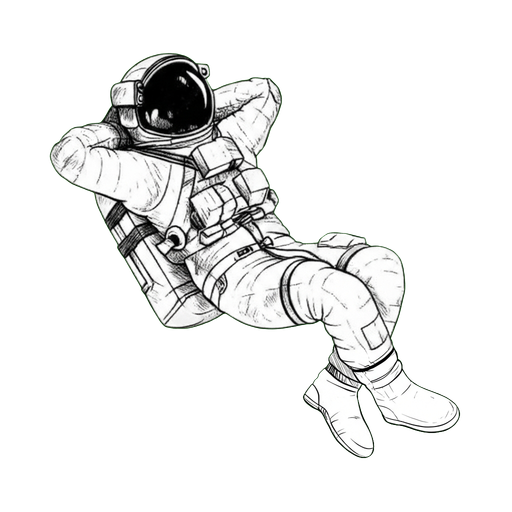
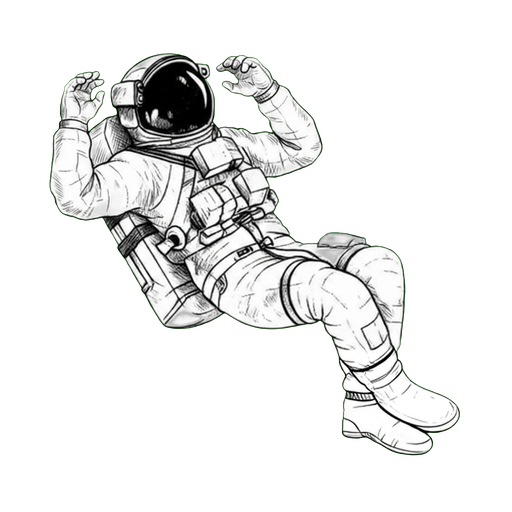
feat: refine stretch to arms-only with fast-hold-ease timing
Regenerated 4 stretch frames via Gemini — arms only change, legs stay
planted in idle position throughout. Dropped settle + recrossed frames
for a tighter 4-frame cycle (idle → anticipation → extension → peak).

Timing: fast zip into stretch (50-80ms holds, 120ms crossfades), 1.2s
hold on peak open-arms pose, 500ms slow ease back to idle. Variable
per-transition crossfade durations replace flat constant.

diff --git a/components/ui/VoyagerLanding.tsx b/components/ui/VoyagerLanding.tsx
@@ -8,29 +8,31 @@ import { useAuth } from '@/lib/auth/context'
 // Email input states
 type EmailState = 'active' | 'sending' | 'sent' | 'error'
 
-// Stretch animation frames — idle → uncross → stretch → arms up → settle → re-cross
+// Stretch animation frames — idle → anticipation → extension → peak → idle
+// Arms-only movement, legs stay planted throughout
 const STRETCH_FRAMES = [
   '/images/astronaut/idle.png',
   '/images/astronaut/stretch-frames/frame-1-uncrossing.png',
   '/images/astronaut/stretch-frames/frame-2-stretched.png',
   '/images/astronaut/stretch-frames/frame-3-peak-stretch.png',
-  '/images/astronaut/stretch-frames/frame-3b-arms-up.png',
-  '/images/astronaut/stretch-frames/frame-4b-settling.png',
-  '/images/astronaut/stretch-frames/frame-5-recrossed.png',
 ]
 
-// Per-frame hold times (ms) — how long to hold each frame before crossfading to next
+// Per-frame hold times (ms) — fast into stretch, hold the peak, ease back
 const FRAME_TIMINGS = [
-  0,    // idle — n/a (starting frame)
-  150,  // uncrossing — quick transition
-  200,  // stretched — settling in
-  250,  // peak stretch — building
-  800,  // arms up — HOLD (the zero-g moment)
-  250,  // settling — unwinding
-  200,  // recrossed — quick return
+  0,     // idle — n/a (starting frame)
+  50,    // anticipation — zip through
+  80,    // extension — zip through
+  1200,  // peak — BIG hold, the satisfying stretch moment
 ]
 
-const CROSSFADE_MS = 300  // opacity transition duration
+// Crossfade durations per transition
+const CROSSFADE_TIMINGS = [
+  0,    // idle — n/a
+  120,  // into anticipation — quick
+  120,  // into extension — quick
+  200,  // into peak — slightly slower arrival
+]
+const CROSSFADE_RETURN = 500  // back to idle — slow ease back, like releasing a stretch
 
 // Randomized idle interval — 20 to 40 seconds between stretches
 const randomIdleMs = () => 20000 + Math.random() * 20000
@@ -41,10 +43,11 @@ export const VoyagerLanding = () => {
   // Welcome line — hidden until LLM responds, fallback after timeout
   const [welcomeLine, setWelcomeLine] = useState<string | null>(null)
 
-  // Astronaut stretch animation — dual-layer crossfade
+  // Astronaut stretch animation — dual-layer crossfade with variable timing
   const [backSrc, setBackSrc] = useState(STRETCH_FRAMES[0])
   const [frontSrc, setFrontSrc] = useState<string | null>(null)
   const [frontOpacity, setFrontOpacity] = useState(0)
+  const [crossfadeDuration, setCrossfadeDuration] = useState(350)
 
   // Email input
   const [email, setEmail] = useState('')
@@ -68,9 +71,10 @@ export const VoyagerLanding = () => {
     let timer: ReturnType<typeof setTimeout>
     let raf: number
 
-    const crossfadeTo = (nextSrc: string, onComplete: () => void) => {
+    const crossfadeTo = (nextSrc: string, durationMs: number, onComplete: () => void) => {
+      setCrossfadeDuration(durationMs)
       setFrontSrc(nextSrc)
-      // Frame delay so browser registers src change before opacity transition
+      // Frame delay so browser registers src + duration change before opacity transition
       raf = requestAnimationFrame(() => {
         setFrontOpacity(1)
       })
@@ -80,7 +84,7 @@ export const VoyagerLanding = () => {
         setFrontSrc(null)
         setFrontOpacity(0)
         onComplete()
-      }, CROSSFADE_MS)
+      }, durationMs)
     }
 
     const runStretchCycle = () => {
@@ -90,13 +94,13 @@ export const VoyagerLanding = () => {
         const nextFrame = frameIndex + 1
 
         if (nextFrame < STRETCH_FRAMES.length) {
-          crossfadeTo(STRETCH_FRAMES[nextFrame], () => {
+          crossfadeTo(STRETCH_FRAMES[nextFrame], CROSSFADE_TIMINGS[nextFrame], () => {
             frameIndex = nextFrame
             timer = setTimeout(advance, FRAME_TIMINGS[nextFrame])
           })
         } else {
           // Return to idle, then wait random interval
-          crossfadeTo(STRETCH_FRAMES[0], () => {
+          crossfadeTo(STRETCH_FRAMES[0], CROSSFADE_RETURN, () => {
             frameIndex = 0
             timer = setTimeout(runStretchCycle, randomIdleMs())
           })
@@ -199,7 +203,7 @@ export const VoyagerLanding = () => {
               className="absolute inset-0 w-full h-full object-contain"
               style={{
                 opacity: frontOpacity,
-                transition: `opacity ${CROSSFADE_MS}ms ease-in-out`,
+                transition: `opacity ${crossfadeDuration}ms ease-in-out`,
               }}
             />
           )}
